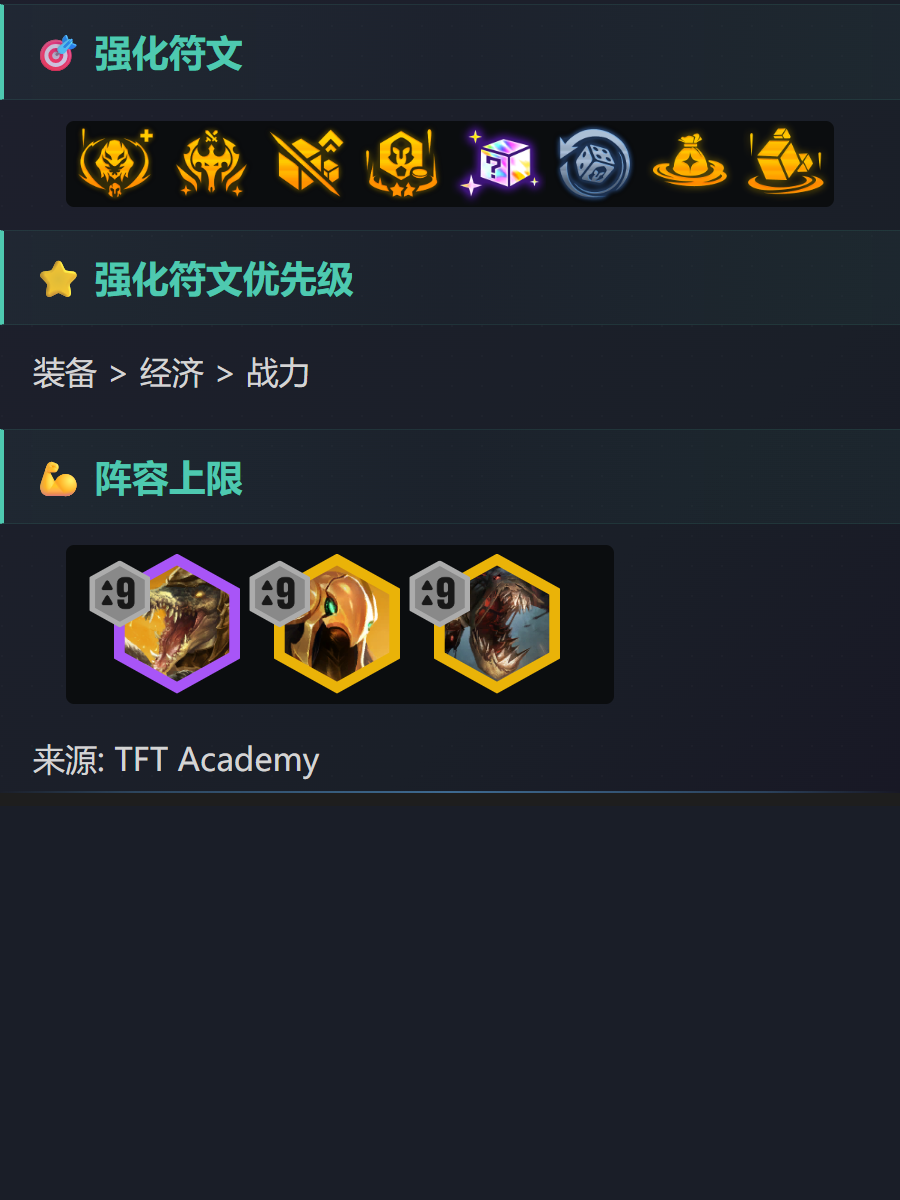
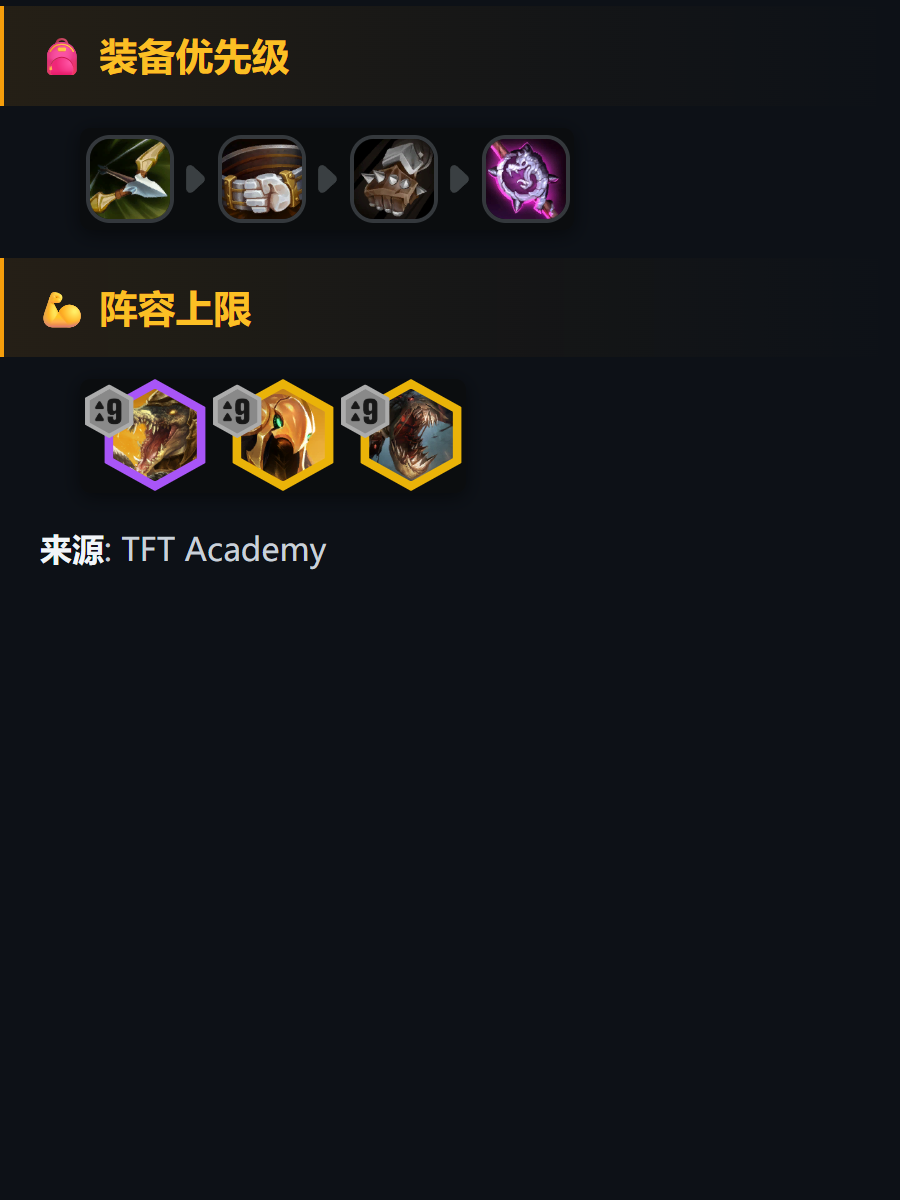
1

diff --git a/scraper/fetchSingleComp.js b/scraper/fetchSingleComp.js
@@ -1,0 +1,192 @@
+/**
+ * 单个阵容抓取脚本
+ * 使用 Anthropic Claude API 的 WebFetch 能力
+ */
+
+import fs from 'fs';
+import path from 'path';
+import { fileURLToPath } from 'url';
+
+const __filename = fileURLToPath(import.meta.url);
+const __dirname = path.dirname(__filename);
+
+/**
+ * 手动输入抓取到的数据
+ */
+const compData = {
+  url: 'https://tftacademy.com/tierlist/comps/set-16-noxus-atakhan',
+  compName: 'set-16-noxus-atakhan',
+  timestamp: new Date().toISOString(),
+
+  // 基本信息
+  name: 'Welcome to Noxus',
+  tier: 'B-Tier',
+  playstyle: '3-Cost Reroll (Easy Difficulty)',
+  patch: '16.6',
+
+  // Tips
+  tips: 'This composition excels through itemization advantage and high-roll potential on 3-star units, though requires consistent high-level rolls and economy management for success.',
+
+  // 核心英雄与装备
+  champions: {
+    mainCarry: {
+      name: 'LeBlanc',
+      cost: 3,
+      items: ['Jeweled Gauntlet', 'Leviathan', 'Leviathan'],
+      role: 'Primary damage dealer; unlock ASAP by itemizing Sion'
+    },
+    secondaryCarry: {
+      name: 'Darius',
+      cost: 4,
+      items: ['Sterak\'s Gage', 'Titan\'s Resolve', 'Adaptive Helm'],
+      role: 'Frontline bruiser; roll for 3-star upgrade'
+    },
+    tertiaryCarry: {
+      name: 'Draven',
+      cost: 4,
+      items: ['Runaan\'s Hurricane', 'Guinsoo\'s Rageblade'],
+      role: 'Attack damage carry; acquire if resources permit'
+    },
+    supporting: ['Briar', 'Sion', 'Kobuko', 'Swain', 'Mel', 'Atakhan']
+  },
+
+  // 装备优先级
+  itemPriority: 'Recurve Bow → Giant\'s Belt → Sparring Gloves → Needlessly Large Rod',
+
+  // 羁绊
+  synergies: '5-Noxus synergy with Kobuko unlock as scaling progresses',
+
+  // 运营策略
+  stages: {
+    stage2: 'Establish winstreaks with early LeBlanc and Noxus openers; build melee AD items for frontline.',
+    stage3: 'Level to 6, activate 5-Noxus immediately; Darius becomes formidable with items.',
+    stage4: 'Roll on level 7 for 3-star units; unlock Mel upon finding Ambessa for radiant items; transition to 7-Noxus or level to 8 for 5-cost units.'
+  },
+
+  // 强化符文
+  augments: [
+    'Bringer of Ruin (primary)',
+    'Noxian Invasion',
+    'Big Grab Bag',
+    'Big Grab Bag Plus',
+    'Gacha Addict',
+    'Army Building',
+    'Find Your Center',
+    'The Darkin Forge'
+  ]
+};
+
+/**
+ * 保存为 JSON
+ */
+function saveAsJSON(data) {
+  const outputDir = path.join(__dirname, 'data');
+  fs.mkdirSync(outputDir, { recursive: true });
+
+  const jsonPath = path.join(outputDir, `${data.compName}_guide.json`);
+  fs.writeFileSync(jsonPath, JSON.stringify(data, null, 2), 'utf-8');
+
+  console.log(`💾 JSON 已保存: ${jsonPath}`);
+  return jsonPath;
+}
+
+/**
+ * 保存为 TFT.txt 格式
+ */
+function saveAsTFT(data) {
+  const lines = [];
+
+  // 阵容基本信息
+  lines.push(`# ${data.name}`);
+  lines.push(`Tier: ${data.tier}`);
+  lines.push(`Playstyle: ${data.playstyle}`);
+  lines.push(`Patch: ${data.patch}`);
+  lines.push('');
+
+  // Tips
+  lines.push('## Tips');
+  lines.push(data.tips);
+  lines.push('');
+
+  // 核心英雄
+  lines.push('## Core Champions');
+  lines.push('');
+  lines.push(`### Main Carry - ${data.champions.mainCarry.name} (${data.champions.mainCarry.cost}-Cost)`);
+  lines.push(`Items: ${data.champions.mainCarry.items.join(', ')}`);
+  lines.push(`Role: ${data.champions.mainCarry.role}`);
+  lines.push('');
+
+  lines.push(`### Secondary Carry - ${data.champions.secondaryCarry.name} (${data.champions.secondaryCarry.cost}-Cost)`);
+  lines.push(`Items: ${data.champions.secondaryCarry.items.join(', ')}`);
+  lines.push(`Role: ${data.champions.secondaryCarry.role}`);
+  lines.push('');
+
+  lines.push(`### Tertiary Carry - ${data.champions.tertiaryCarry.name} (${data.champions.tertiaryCarry.cost}-Cost)`);
+  lines.push(`Items: ${data.champions.tertiaryCarry.items.join(', ')}`);
+  lines.push(`Role: ${data.champions.tertiaryCarry.role}`);
+  lines.push('');
+
+  lines.push(`Supporting Units: ${data.champions.supporting.join(', ')}`);
+  lines.push('');
+
+  // 装备优先级
+  lines.push('## Item Priority');
+  lines.push(data.itemPriority);
+  lines.push('');
+
+  // 羁绊
+  lines.push('## Key Synergies');
+  lines.push(data.synergies);
+  lines.push('');
+
+  // 运营策略
+  lines.push('## Gameplay Strategy');
+  lines.push('');
+  Object.entries(data.stages).forEach(([stage, content]) => {
+    const stageNum = stage.replace('stage', '');
+    lines.push(`**Stage ${stageNum}:** ${content}`);
+    lines.push('');
+  });
+
+  // 强化符文
+  lines.push('## Notable Augments');
+  data.augments.forEach(aug => {
+    lines.push(`- ${aug}`);
+  });
+  lines.push('');
+
+  // 保存到项目根目录的 TFT.txt
+  const outputPath = path.join(__dirname, '..', 'TFT.txt');
+  const content = lines.join('\n');
+  fs.writeFileSync(outputPath, content, 'utf-8');
+
+  console.log(`💾 TFT.txt 已保存: ${outputPath}`);
+  console.log(`\n文件内容预览:\n${content.substring(0, 500)}...\n`);
+
+  return outputPath;
+}
+
+/**
+ * 主函数
+ */
+function main() {
+  console.log('\n========================================');
+  console.log('📝 处理阵容数据');
+  console.log('========================================\n');
+
+  console.log(`阵容: ${compData.name}`);
+  console.log(`URL: ${compData.url}\n`);
+
+  // 保存 JSON
+  saveAsJSON(compData);
+
+  // 保存 TFT.txt
+  saveAsTFT(compData);
+
+  console.log('✅ 数据处理完成！\n');
+}
+
+// 执行
+main();
+
+export { compData, saveAsJSON, saveAsTFT };

diff --git a/guides/noxus-leblanc-atakhan/TFT.md b/guides/noxus-leblanc-atakhan/TFT.md
@@ -1,59 +1,52 @@
-<!-- cover: dataTFT (13).png -->
+<!-- tags: 赌狗, 吃分 -->
+<!-- cover: image.png -->
 <!-- backup: noxus-leblanc-atakhan -->
 
-# 诺克萨斯 乐芙兰
+# 德莱厄斯 乐芙兰
 
-## 🎯 提示
+## 💡 核心攻略
 
-尽快通过给**赛恩**做装备来解锁**乐芙兰**。
+尽快通过给**塞恩**装备来解锁**乐芙兰**。
 
-**厄塔汗**从棋盘左侧召唤,所以你的破甲装备应该偏向棋盘中的左侧。
+<u>装备优先级：乐芙兰 > 德莱厄斯</u>。
 
-如果无法追3星**乐芙兰**,就转2星**梅尔**并在后期换装。
+停在7级并D3星德莱厄斯、3星乐芙兰,如果够富就连3星德莱文也D出来。
 
-后期阶段,淘汰较弱的**诺克萨斯**单位如**德莱厄斯**和**贝蕾亚**,换上更强的单位。
-
-## 🚀 前期构成
-![alt text](image-1.png)
-
-## 🎒 装备优先级
-![alt text](image-2.png)
+梅尔和斯维因可以拿工具装。
 
 ## ⭐ 最终阵容
-![alt text](<dataTFT (12).png>)
+![alt text](image-6.png)
 
-## 📊 二阶段
+## 🎯 阶段运营
 
-理想情况下从围绕**乐芙兰**和**诺克萨斯**的强势开局打。
+**二阶段:** 
 
-如果你有物理加成装备 + **德莱文**,考虑把开局阵容转向不同的后期阵容。
+理想情况下从乐芙兰和**诺克萨斯**开局。没有就用前排战士过渡，直到找到德莱厄斯。
 
-## 📊 三阶段
+**三阶段:** 
 
-升到6级并在可能的情况下打5**诺克萨斯**。
+升到6级并尽快上**5诺克萨斯**。你也可以上更多斗士来解锁可酷伯。<u>装备齐全且俩星的德莱厄斯在这个阶段是个怪物</u>。
 
-你也可以加入额外的**斗士**来解锁**可酷伯**的羁绊。
+**四阶段:** 
 
-<u>1星带装斯维因 > 2星赛恩</u>。
-
-## 📊 四阶段
-
-如果你很富裕且有很多**乐芙兰**,考虑在7级追3星。
-
-否则,升到8级并滴出完整的**诺克萨斯**阵容。
-
-**梅尔**拿剩余的法力/法术加成装备。
+在7级D3星,上5诺克萨斯+可酷伯。找到安蓓萨后立即解锁梅尔来刷光明装备。8级时上7诺克萨斯,或者上5费卡。
 
 ## 🔄 特殊装备
-![alt text](image-3.png)
+![alt text](image-5.png)
 
 ## 🎯 强化符文
-![alt text](image.png)
+![alt text](image-1.png)
 
 ## ⭐ 强化符文优先级
 装备 > 经济 > 战力
 
+## 🚀 前期构成
+![alt text](image-2.png)
+
+## 🎒 装备优先级
+![alt text](image-3.png)
+
 ## 💪 阵容上限
 ![alt text](image-4.png)
 
-来源: TFT Academy
+**来源**: TFT Academy
